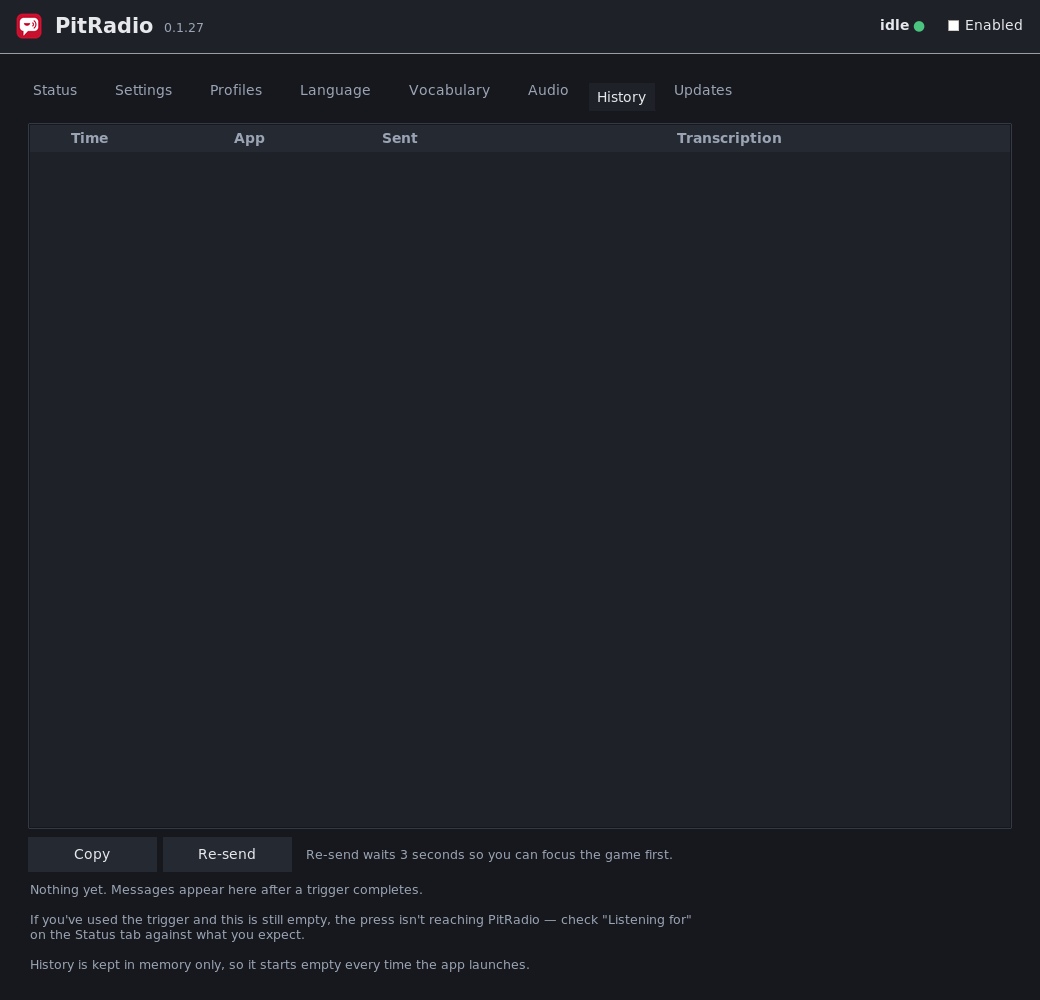
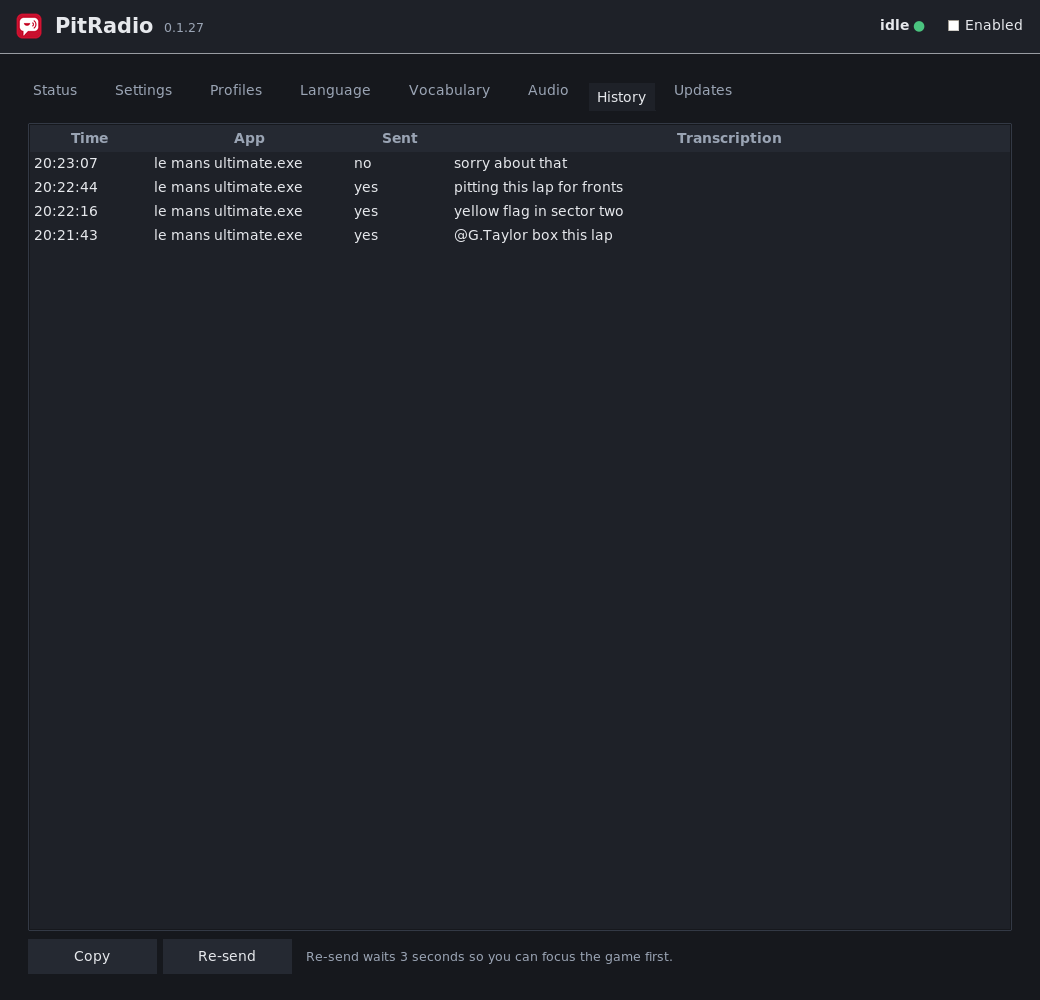
Regenerate the screenshots, and give two tabs something to show
History and Updates were captured empty: four column headings over blank
space, and a large grey rectangle labelled "Release notes". screenshots.py's
own docstring says a shot of an empty log documents nothing, and those two
were exactly that. Both are now populated through the same calls the app
makes, so the widgets are real. One history row reads "no" in the Sent column
— with every row saying yes, the column looks like decoration rather than the
thing that tells you a message was transcribed but held back.

The release-notes pane had the same doubled border as the log: a LabelFrame
outline plus the highlight ring text_options() adds for standalone panes.

docs/images/README.md documented an `xvfb-run` command that hangs in this
image with no output and no error. Starting Xvfb directly works, so that is
what it now says.

diff --git a/packaging/screenshots.py b/packaging/screenshots.py
@@ -91,6 +91,7 @@ def populate(app) -> None:
     import time
 
     from pitradio import state as state_mod
+    from pitradio.ui import gui_settings
 
     app.state.set_context("le mans ultimate.exe", "le mans ultimate.exe")
     app.state.set_status(state_mod.STATUS_IDLE)
@@ -113,6 +114,40 @@ def populate(app) -> None:
         app.log_text.insert("end", f"20:14:07 INFO    worker: {entry}\n")
         app.log_text.configure(state="disabled")
     app.log_text.see("end")
+
+    # The History tab is a table, and a screenshot of an empty table with four
+    # column headings tells a reader nothing about what lands in it. Rows are
+    # inserted through the same call the worker makes, so this is the real
+    # widget with real entries rather than a drawing of one.
+    #
+    # The last one is deliberately a message that was transcribed but not
+    # sent: that is what the "Sent" column exists to distinguish, and with
+    # every row reading "yes" the column looks like decoration.
+    # An empty Release notes pane is a large grey rectangle documenting
+    # nothing. Written through the widget, not faked: this is what a pending
+    # update actually looks like.
+    app.notes_text.configure(state="normal")
+    app.notes_text.insert("1.0",
+        "PitRadio 0.1.28\n\n"
+        "- Wheel and gamepad buttons are mapped through JoyToKey rather than\n"
+        "  read directly. See the README for the setup.\n"
+        "- The self-updater now runs the installer visibly, so a failed\n"
+        "  update can no longer look like nothing happening.\n"
+        "- Window styling: readable values in dark mode, and the taskbar\n"
+        "  icon is the app's own rather than a rescaled bitmap.\n")
+    app.notes_text.configure(state="disabled")
+
+    now = time.time()
+    for offset, exe, text, typed in (
+        (95.0, "le mans ultimate.exe", "@G.Taylor box this lap", True),
+        (62.0, "le mans ultimate.exe", "yellow flag in sector two", True),
+        (34.0, "le mans ultimate.exe", "pitting this lap for fronts", True),
+        (11.0, "le mans ultimate.exe", "sorry about that", False),
+    ):
+        gui_settings.add_history_row(app, state_mod.HistoryEntry(
+            when=now - offset, exe=exe, profile=exe, text=text, typed=typed,
+            transcribe_seconds=0.42, total_seconds=2.31,
+        ))
 
 
 def _looks_like_a_desktop(image) -> bool:

diff --git a/src/pitradio/ui/gui_settings.py b/src/pitradio/ui/gui_settings.py
@@ -1232,7 +1232,11 @@ def build_updates_tab(app) -> None:
     notes = ttk.LabelFrame(frame, text=t("Release notes"), padding=6)
     notes.pack(fill="both", expand=True)
     app.notes_text = tk.Text(notes, wrap="word", height=12, state="disabled",
+                             padx=8, pady=6,
                              **theme.text_options(app.palette))
+    # One border, not two: the LabelFrame already draws one, and
+    # text_options() adds a highlight ring meant for a standalone pane.
+    app.notes_text.configure(highlightthickness=0)
     app.notes_text.pack(fill="both", expand=True)
 
 

diff --git a/docs/images/README.md b/docs/images/README.md
@@ -3,9 +3,13 @@
 Generated, not hand-made:
 
 ```bash
-docker build -t pitradio-shots -f packaging/screenshots.Dockerfile packaging
-docker run --rm -v "$PWD":/app -e PYTHONPATH=/app/src:/app/vendor pitradio-shots \
-    xvfb-run -s "-screen 0 1500x1200x24" python packaging/screenshots.py
+docker build -t pitradio-shots -f packaging/screenshots.Dockerfile .
+```
+
+```bash
+docker run --rm -v "$PWD":/app -e PYTHONPATH=/app/src:/app/vendor -e DISPLAY=:99 \
+    pitradio-shots sh -c 'Xvfb :99 -screen 0 1400x1100x24 >/dev/null 2>&1 & sleep 3
+                          python packaging/screenshots.py'
 ```
 
 Or natively, if you have a display:
@@ -21,6 +25,11 @@ shot stays correct after the layout moves.
 The container route needs no display and no permissions, which is why it is
 first. The app forces ttk's `clam` theme and sets every colour explicitly, so
 a Linux render matches Windows closely — the fonts differ, nothing else.
+
+**Xvfb is started by hand rather than through `xvfb-run`.** `xvfb-run` hangs
+indefinitely in this image on at least some hosts — no output, no error, no
+X server — and since the whole point is an unattended render, a wrapper that
+sometimes never returns is worse than three lines of shell.
 
 On macOS the terminal needs Screen Recording permission. Without it
 `ImageGrab` returns the desktop wallpaper rather than an error; the script
